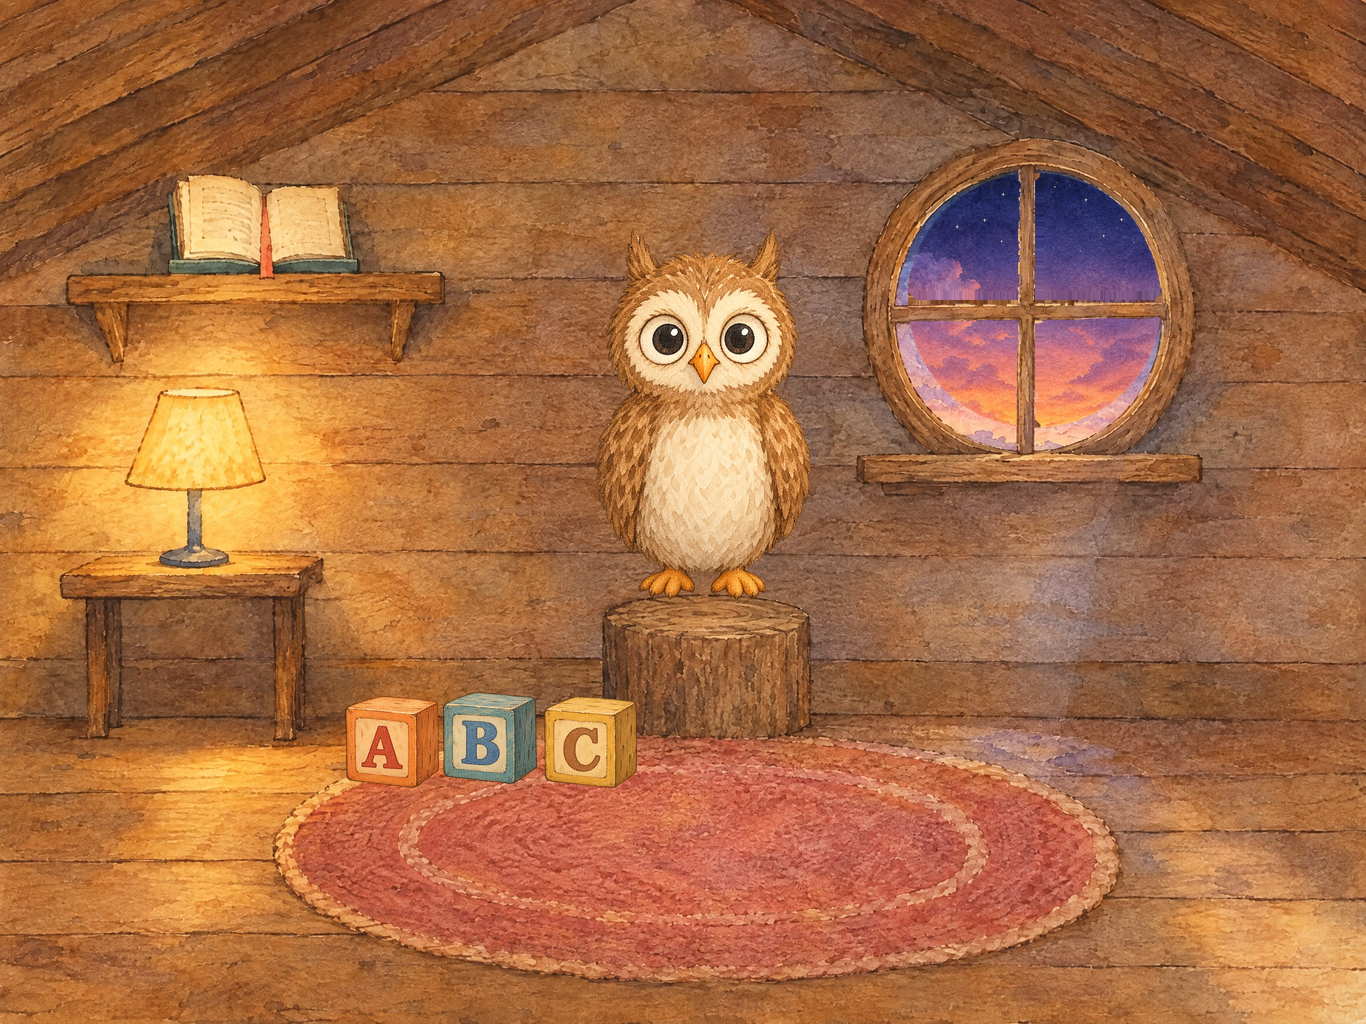
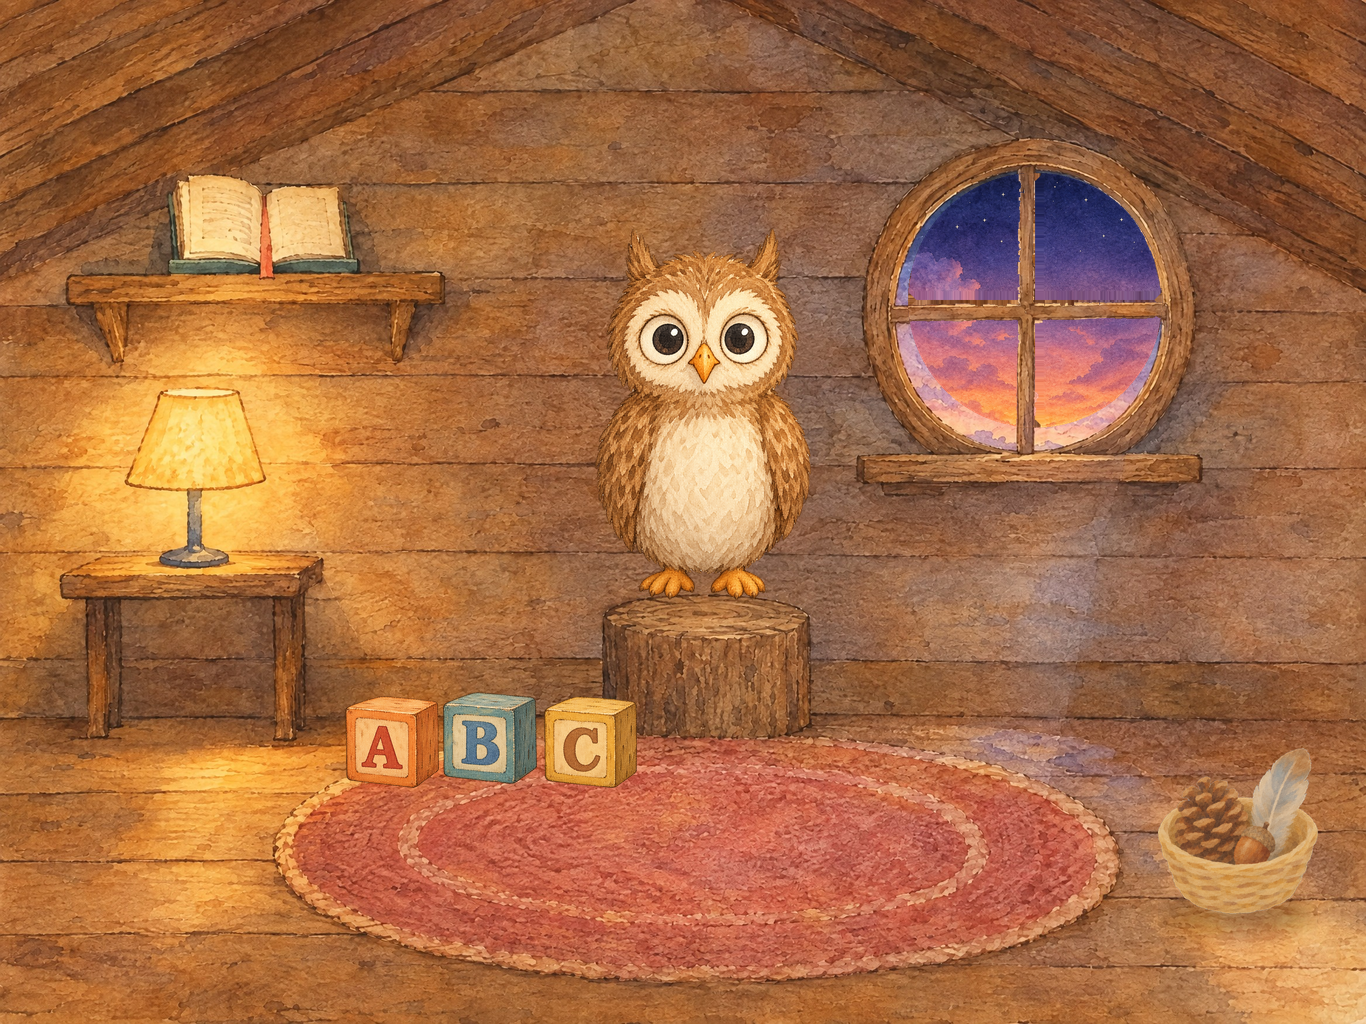
The previews knew about four props and there are five
`docs/preview/` is rendered from the app's own layout constants so it cannot quietly
drift from what SpriteKit draws, and today it drifted: the basket is the one prop that
is not in room_bg.jpg, so it is the one prop a composite of room_bg.jpg plus a few
sprites would silently leave out. It is pasted now, and the grid draws its tap target
alongside the other four - 160 x 200 in the near corner, clear of the rug, the window
and the badge.

All four times of day re-rendered.

Also in WonderMode: the owl now goes to `.listening` once it has finished naming the
three cards, which is ear tufts up and leaning in - what waiting on a child looks like,
and what Word games already does after its cards. `.thinking` shuts the owl's eyes, and
an owl with its eyes shut while a child is choosing is an owl that has stopped caring.
The microphone is not open there and never is.

Claude-Session: https://claude.ai/code/session_01AmmcvfswvTSM3SnR2X1ZP2

Changed region(s): [[0.8302, 0.7188, 0.9839, 0.9375]]

diff --git a/LittleOwl/Modes/WonderMode.swift b/LittleOwl/Modes/WonderMode.swift
@@ -97,12 +97,14 @@ final class WonderMode: RoomMode {
         caption.zPosition = ModeLayer.overlay
 
         choices.onPick = { [weak self] index in self?.cardTapped(index) }
-        // Naming the cards is the owl talking; once it stops, the cards are simply
-        // waiting and so is the owl.
-        choices.onNamed = { [weak self] in self?.owl.transition(to: .thinking) }
+        // Naming the cards is the owl talking; once it stops it is waiting on the child.
+        // `.listening` is ear tufts up and leaning in, which is what waiting looks like —
+        // the microphone is not open here and never is. Word games do the same after
+        // their cards, and `.thinking` would shut the owl's eyes while a child chooses.
+        choices.onNamed = { [weak self] in self?.owl.transition(to: .listening) }
     }
 
-    var canBegin: Bool { pack.questions.count >= 1 }
+    var canBegin: Bool { !pack.questions.isEmpty }
 
     // MARK: Starting and stopping
 

diff --git a/tools/compose_room.py b/tools/compose_room.py
@@ -88,6 +88,12 @@ def compose(time="night", owl=True):
     for letter, centre in zip("abc", L["blockCentres"]):
         paste(canvas, f"block_{letter}.png", (centre["x"], centre["y"]), L["blockHeight"])
 
+    # The basket is the one prop that is not in room_bg.jpg, so it is the one the preview
+    # would silently leave out. `paste` says so and carries on if its painting is absent,
+    # which is the same thing the app does.
+    paste(canvas, "corner_basket.png",
+          (L["basketCentre"]["x"], L["basketCentre"]["y"]), L["basketSize"]["height"])
+
     if owl:
         owl_h = L["owlHeight"]
         paste(canvas, "owl_base.png", (L["owlHome"]["x"], L["owlHome"]["y"] + owl_h / 2), owl_h)
@@ -109,6 +115,7 @@ def draw_grid(canvas):
         ("lamp", L["lampCentre"], L["lampSize"]),
         ("blocks", L["blocksTapCentre"], L["blocksTapSize"]),
         ("window", L["windowCentre"], L["windowTapSize"]),
+        ("basket", L["basketCentre"], L["basketSize"]),
         ("owl", {"x": L["owlHome"]["x"], "y": L["owlHome"]["y"] + L["owlHeight"] / 2},
          {"width": 260, "height": L["owlHeight"] + 40}),
     ]
